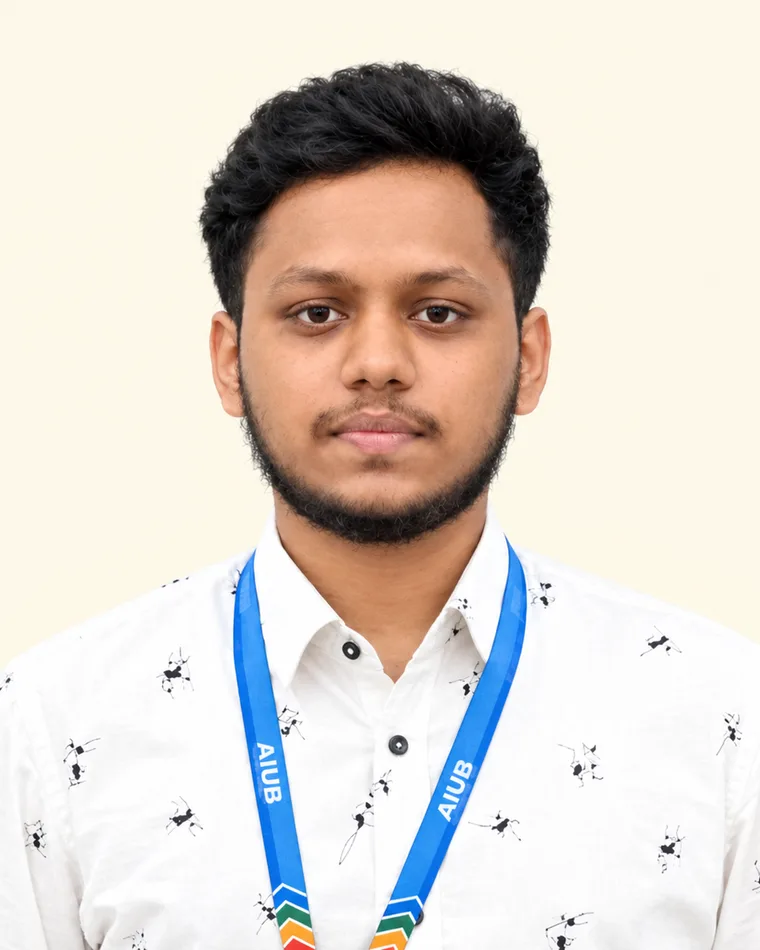
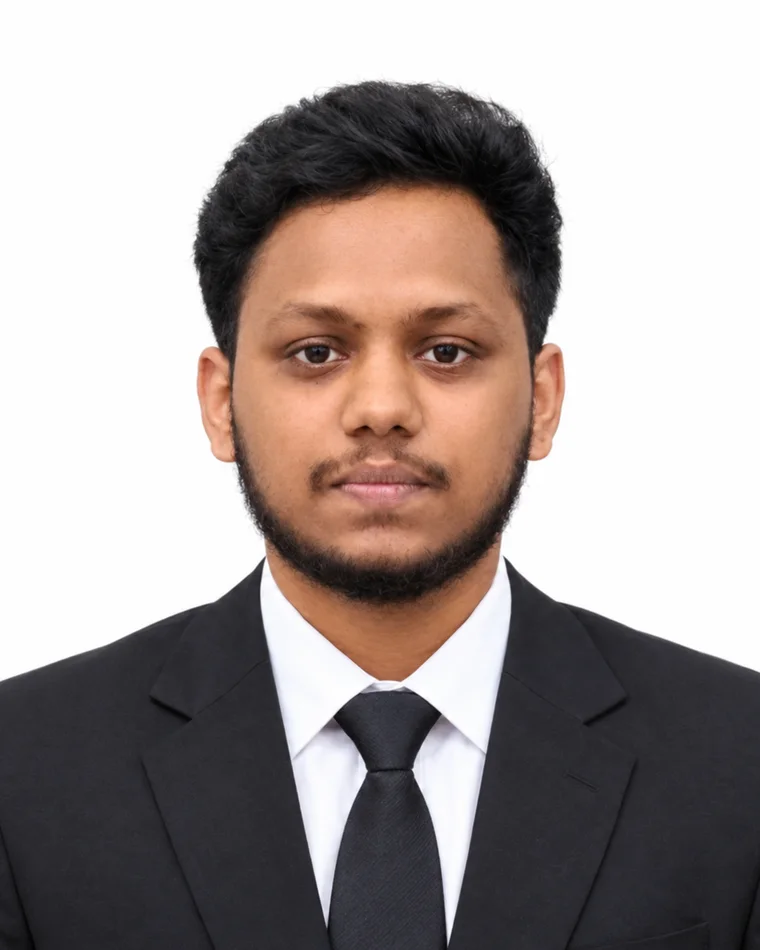
chnage the picture

diff --git a/note.md b/note.md
@@ -1,0 +1,6 @@
+https://github.com/zobayer-hosen/6designs
+https://github.com/zobayer-hosen/go-products-api
+https://github.com/zobayer-hosen/ai-engineer-bangla
+https://github.com/zobayer-hosen/ecommerce-api
+https://github.com/zobayer-hosen/bytespace
+https://github.com/zobayer-hosen/seat-reservation-api
